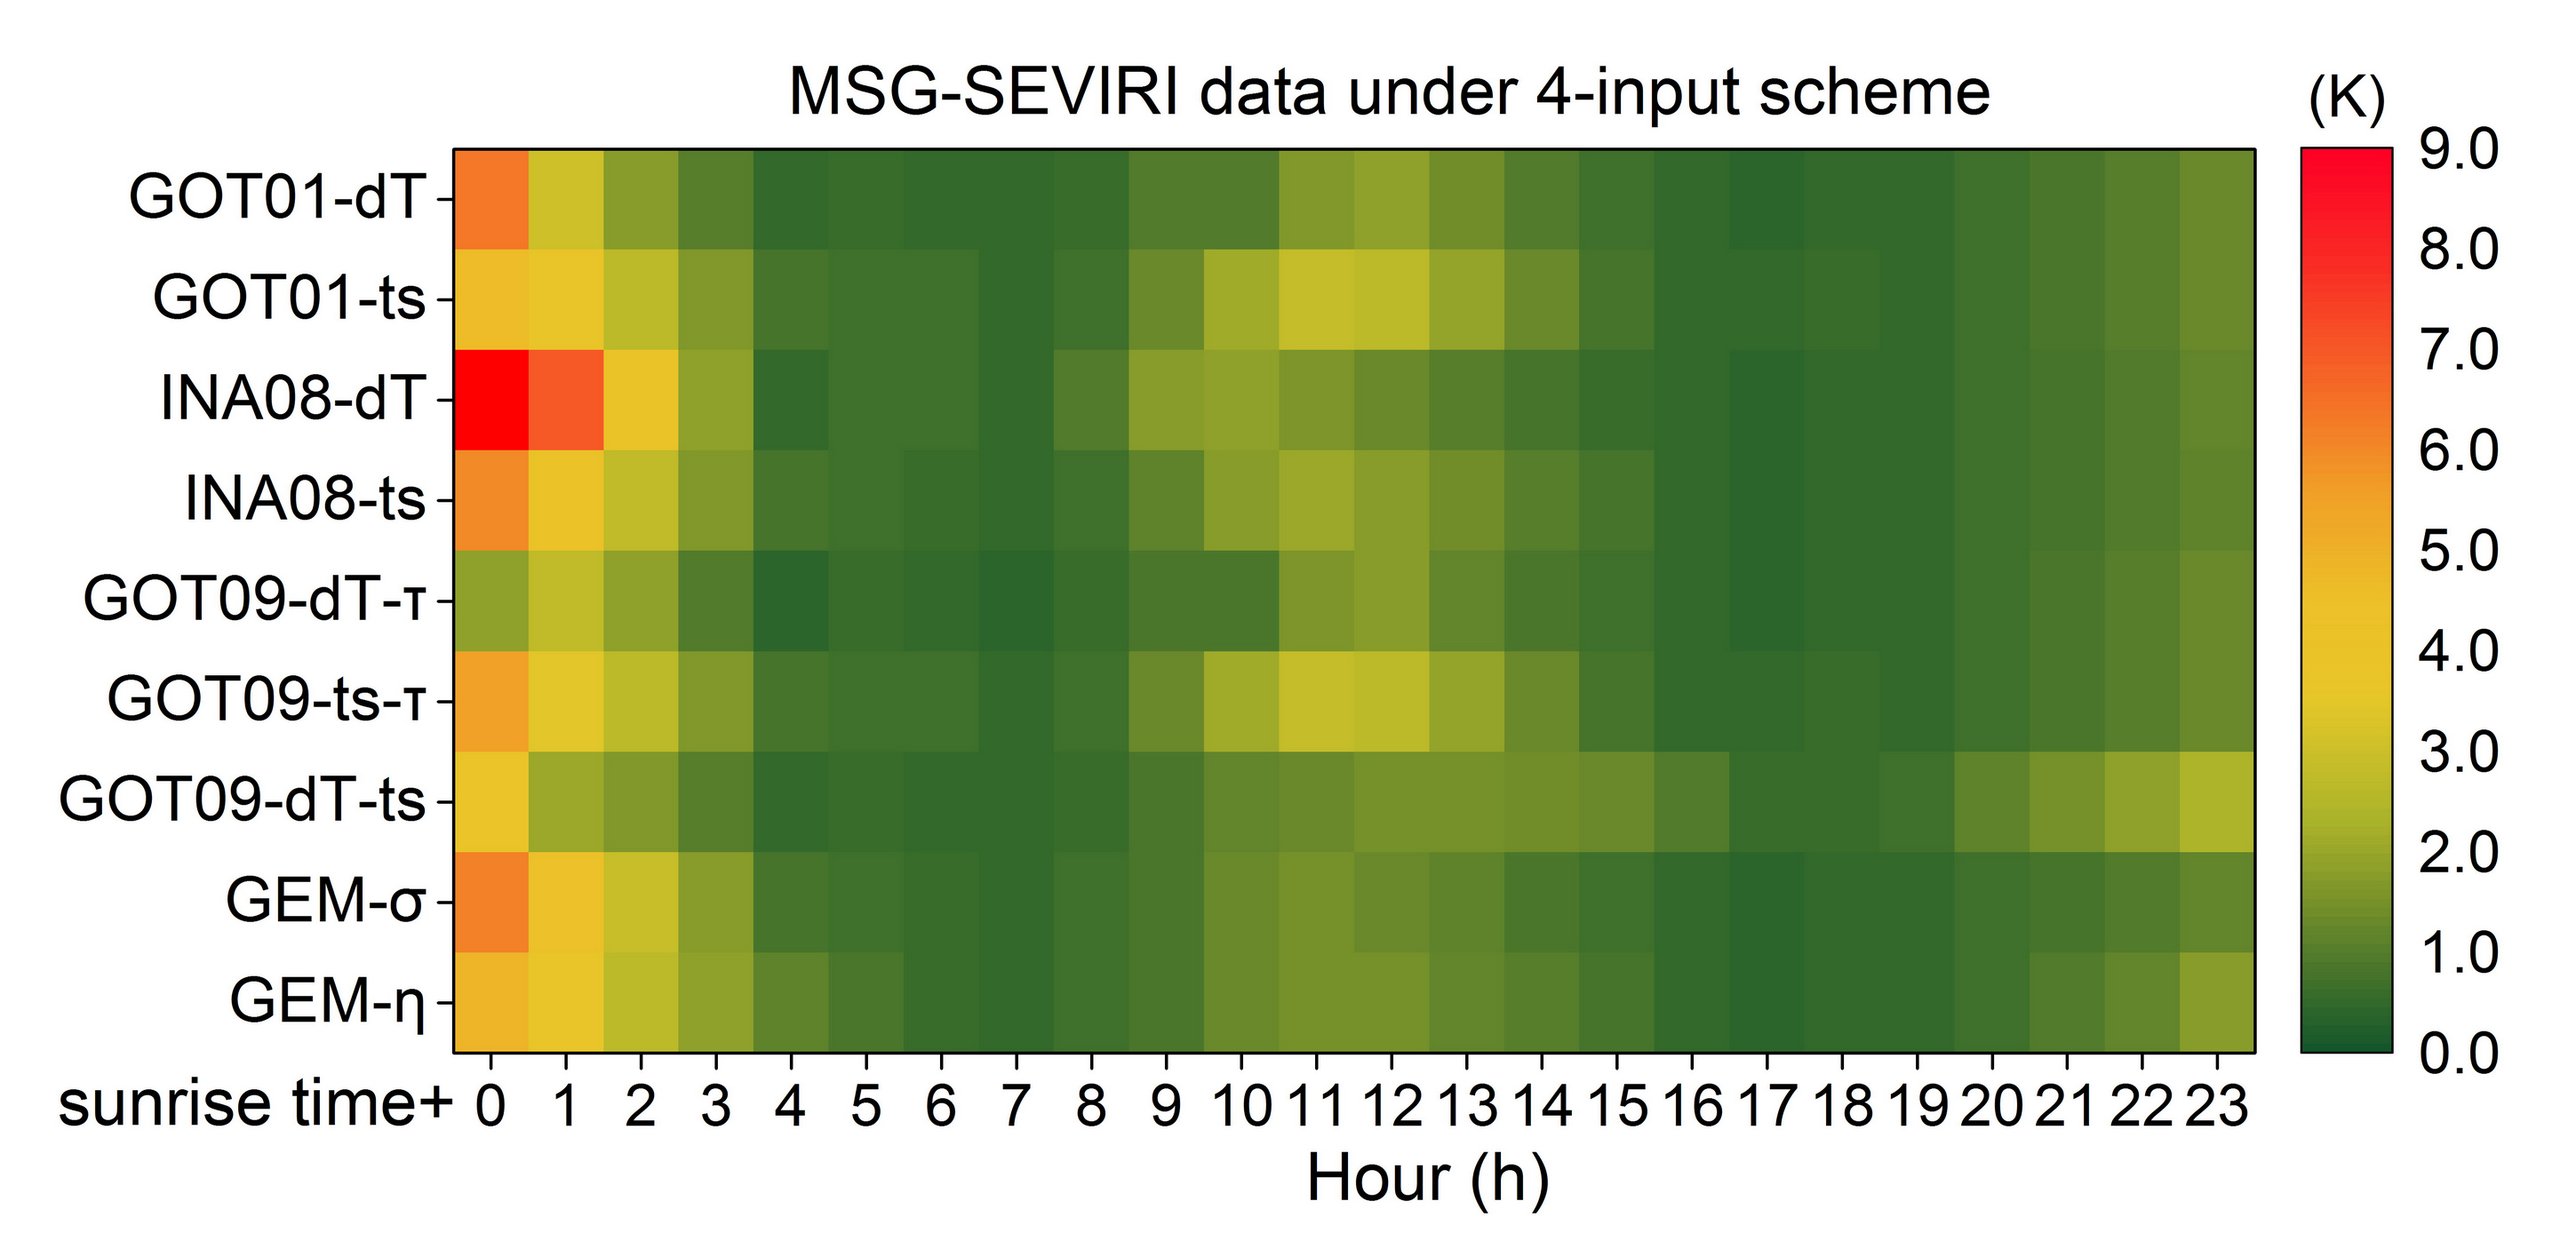
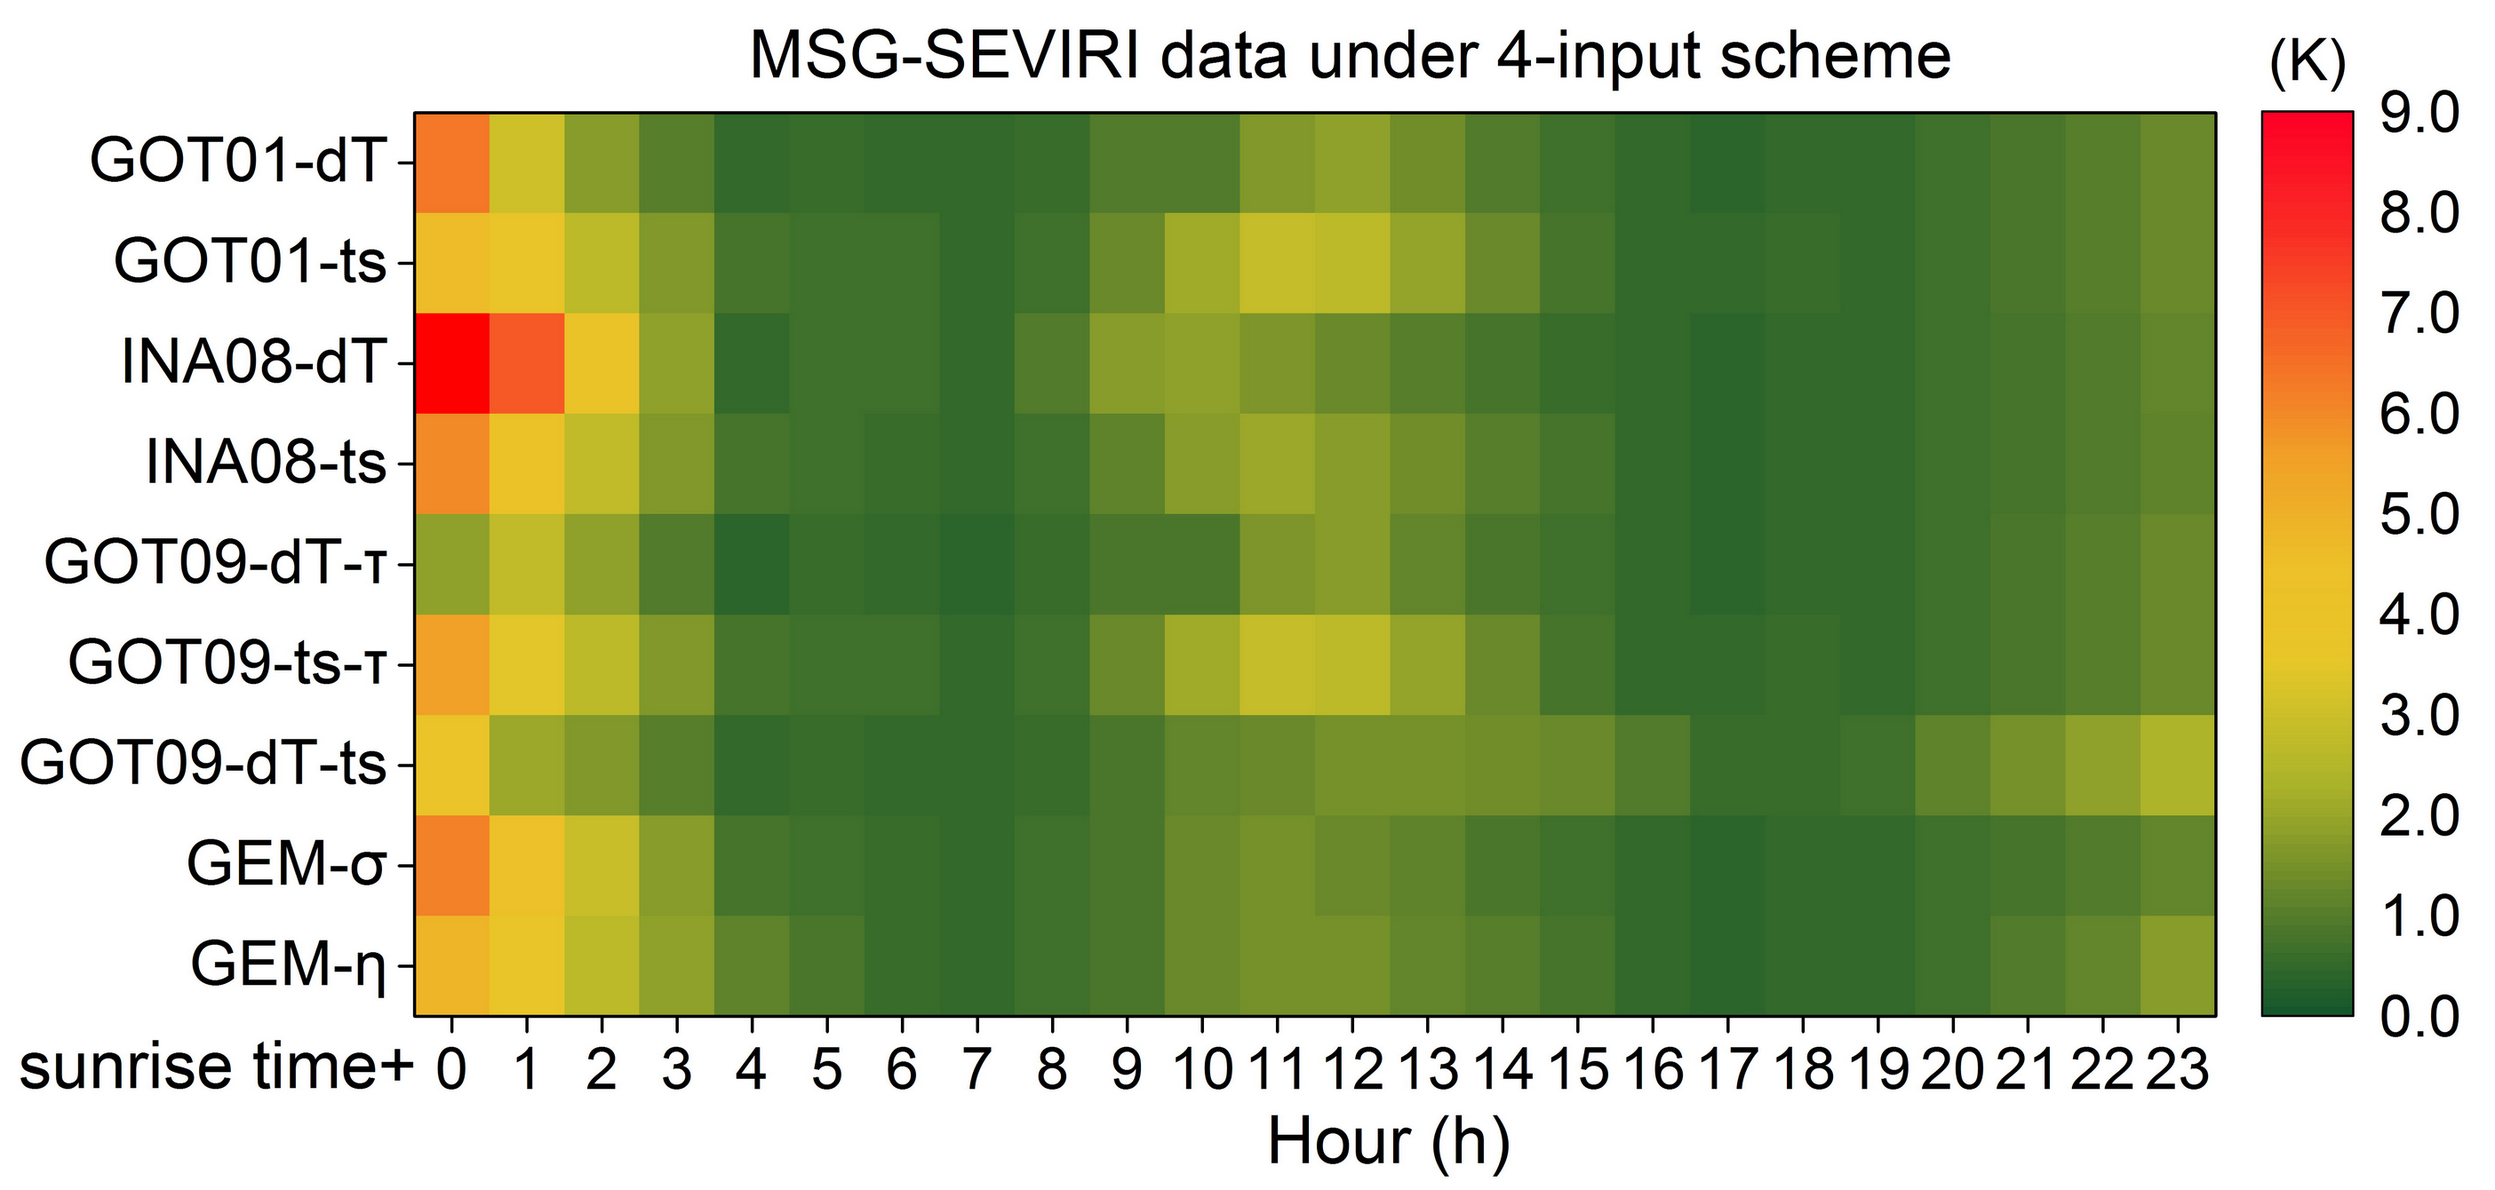
update research.md

diff --git a/_pages/research.md b/_pages/research.md
@@ -50,7 +50,7 @@ author_profile: true
 * Related publication: [Hong et al., 2008](https://www.sciencedirect.com/science/article/pii/S0924271618301710).
 
 **Hourly RMSEs of the selcted nine four-parameter DTC models**
-![image_four_parameter_DTC](/images/MSG-SEVIRI_four_points.png)
+![image_four_parameter_DTC](/images/MSG-SEVIRI_four_points.png){:height="85%" width="85%"}
 
 
 
